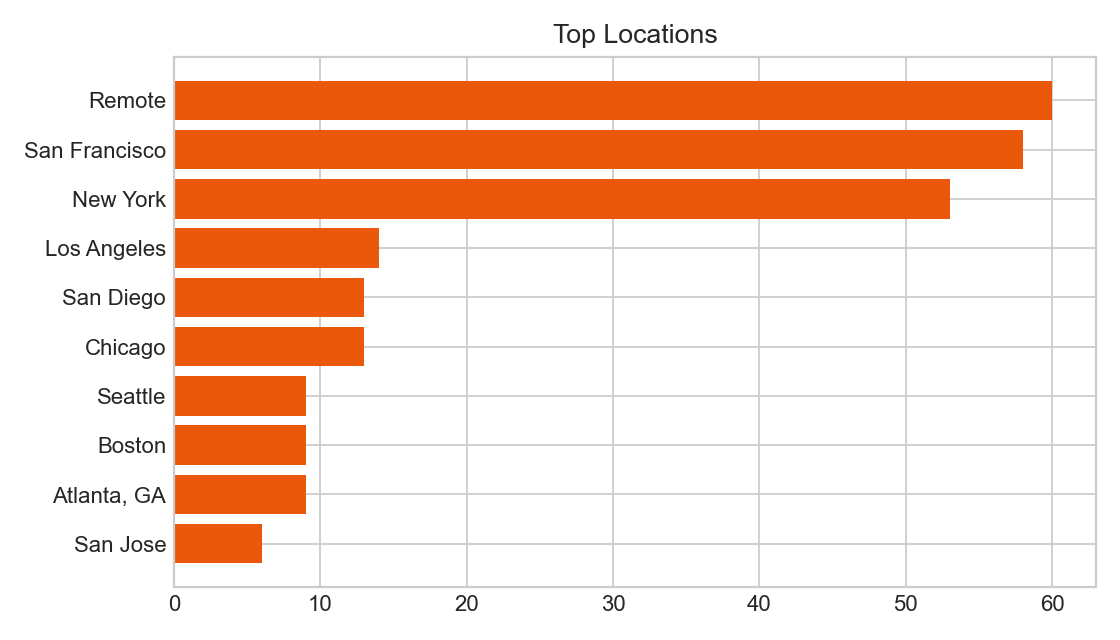
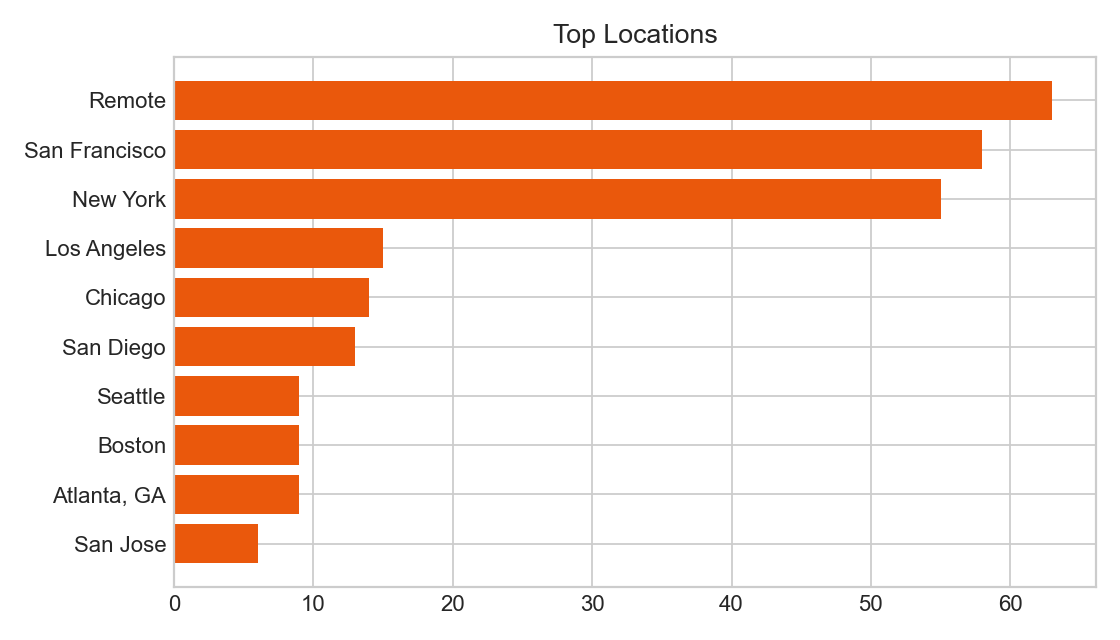
Refresh analytics: 862 merged roles (8/5 batch — 5 applied, 7 skip)

diff --git a/data/daily_summary.md b/data/daily_summary.md
@@ -1,6 +1,6 @@
 # Daily Job Search Summary
 
-_Last refreshed: 2026-08-04T23:30:17-07:00_
+_Last refreshed: 2026-08-05T23:54:42-07:00_
 
 ## Positioning
 
@@ -10,37 +10,37 @@ _Last refreshed: 2026-08-04T23:30:17-07:00_
 
 ## Snapshot
 
-- Tracked roles: 842
-- Active roles: 471
-- Response rate: 0.7%
+- Tracked roles: 862
+- Active roles: 483
+- Response rate: 0.9%
 - LinkedIn outreach sent: 28
 - Pending pipeline items: 155
 - Recommended pipeline items: 36
-- Average evaluated score: 3.4
+- Average evaluated score: 3.39
 
 ## Status Breakdown
 
-- applied: 457
+- applied: 468
 - applied ✅: 1
 - discarded: 5
 - evaluated: 10
-- interview: 4
+- interview: 5
 - oa完成: 1
-- rejected: 105
-- skip: 108
+- rejected: 106
+- skip: 115
 
 ## Recent Activity
 
-- 2026-08-04: Siemens Industry | Jr. Data Analyst - Tableau/SQL | skip
-- 2026-08-04: Protect Democracy (VoteShield) | Data Scientist | applied
-- 2026-08-04: Darling Consulting Group | Associate Data Analyst | applied
-- 2026-08-04: Lansing Building Products | Junior Business Intelligence Analyst | applied
-- 2026-08-04: LSEG (FTSE Russell) | Fixed Income Data Analyst | skip
-- 2026-08-04: NYC Department of Transportation | Data Analyst, Transit Development | applied
-- 2026-08-03: Rincon Consultants | GIS Analyst | skip
-- 2026-08-03: Monster Energy | Analyst, Logistics TMS | skip
-- 2026-08-03: Freddie Mac | Single-Family Data Analyst (College Analyst Cohort) | skip
-- 2026-08-03: Salem Five | Retail Information Analyst I | skip
+- 2026-08-05: PSE | Associate Load Forecasting Analyst | applied
+- 2026-08-05: Thorlabs | Data Analyst I | applied
+- 2026-08-05: Applied Materials | Data Scientist - Agentic AI / ML | applied
+- 2026-08-05: Olé Mexican Foods | Data Analyst Jr. | applied
+- 2026-08-05: KlariVis | Junior Data Engineer | applied
+- 2026-08-05: Puget Sound Energy | Associate Load Forecasting Analyst | applied
+- 2026-08-05: Olé Mexican Foods | Business Intelligence Analyst (Data Analyst Jr.) | applied
+- 2026-08-05: Cursor (Anysphere) | Data Analyst, User Operations | skip
+- 2026-08-05: Everforth Apex (Apex Systems) | Data Analyst I, Asset Data Management | skip
+- 2026-08-05: FedPoint | Associate Data Analyst (FLTCIP BA & QA) | skip
 
 ## Recommended Opportunity Queue
 
@@ -62,13 +62,13 @@ _Last refreshed: 2026-08-04T23:30:17-07:00_
 
 ## Needs Attention
 
-- Microsoft | Applied Scientist: Microsoft AI Development Acceleration Program | 145 days with no response
-- Nvidia | Deep Learning Architect, LLM Inference - New College Grad 2026 | 145 days with no response
-- Google | Software Engineer II, Early Career | 141 days with no response
-- Apple | AIML - Machine Learning Research | 134 days with no response
-- Amazon | Data Engineer II | 132 days with no response
-- Amazon | Software Development Engineer – Amazon Leo (US) | 132 days with no response
-- Amazon | Software Development Engineer - 2026 (US) | 132 days with no response
-- Amazon | 软件开发工程师, (New graduate or Entry-level Engineer, 0-2 Years) | 132 days with no response
-- Esri | Product Test Engineer II - Feature Server | 132 days with no response
-- Esri | Product Engineer II - ArcGIS Enterprise Sharing API | 132 days with no response
+- Microsoft | Applied Scientist: Microsoft AI Development Acceleration Program | 146 days with no response
+- Nvidia | Deep Learning Architect, LLM Inference - New College Grad 2026 | 146 days with no response
+- Google | Software Engineer II, Early Career | 142 days with no response
+- Apple | AIML - Machine Learning Research | 135 days with no response
+- Amazon | Data Engineer II | 133 days with no response
+- Amazon | Software Development Engineer – Amazon Leo (US) | 133 days with no response
+- Amazon | Software Development Engineer - 2026 (US) | 133 days with no response
+- Amazon | 软件开发工程师, (New graduate or Entry-level Engineer, 0-2 Years) | 133 days with no response
+- Esri | Product Test Engineer II - Feature Server | 133 days with no response
+- Esri | Product Engineer II - ArcGIS Enterprise Sharing API | 133 days with no response
